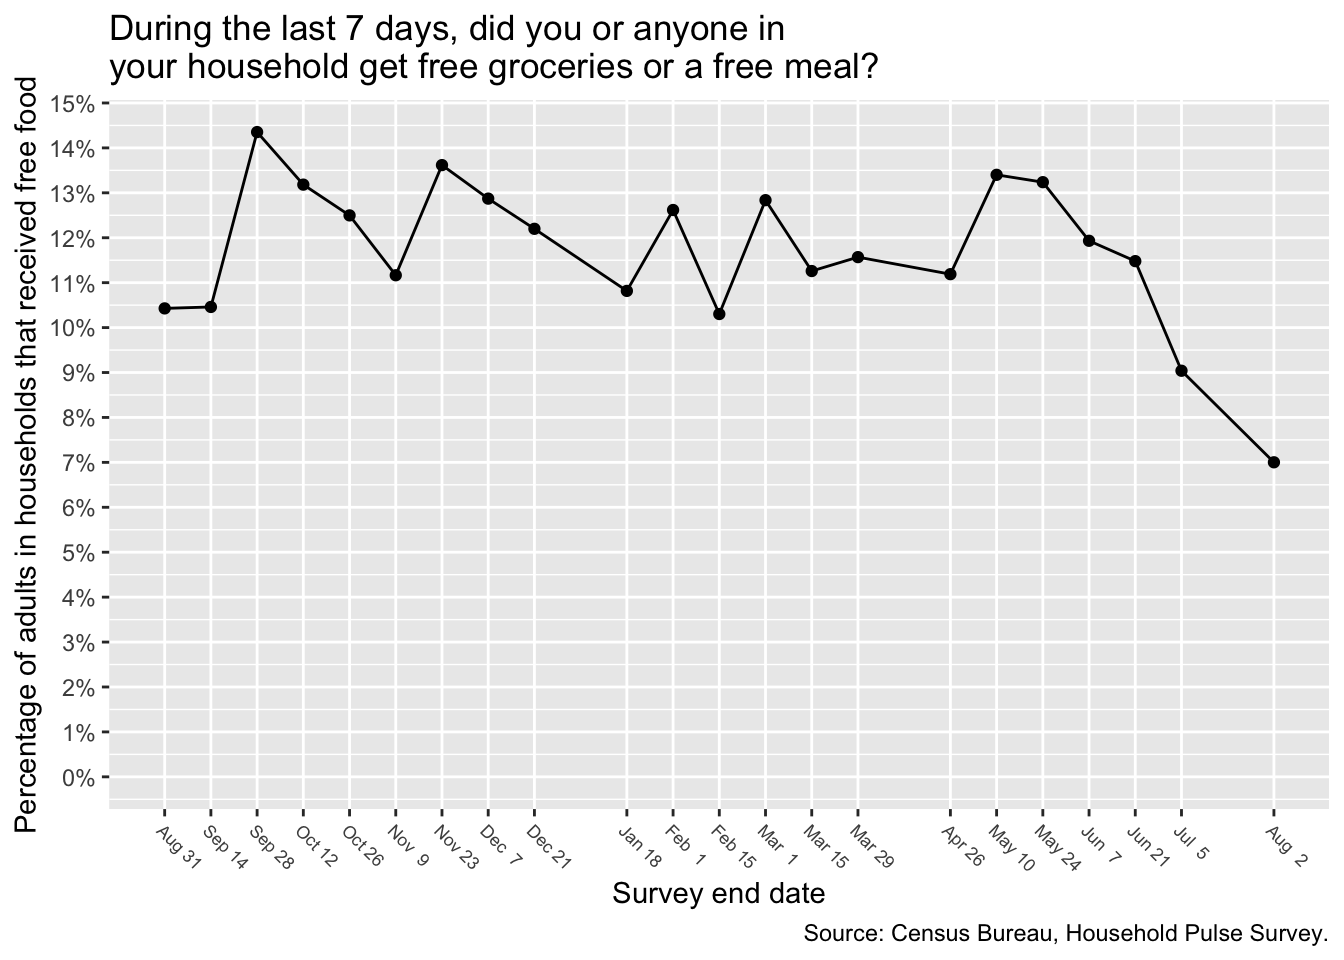
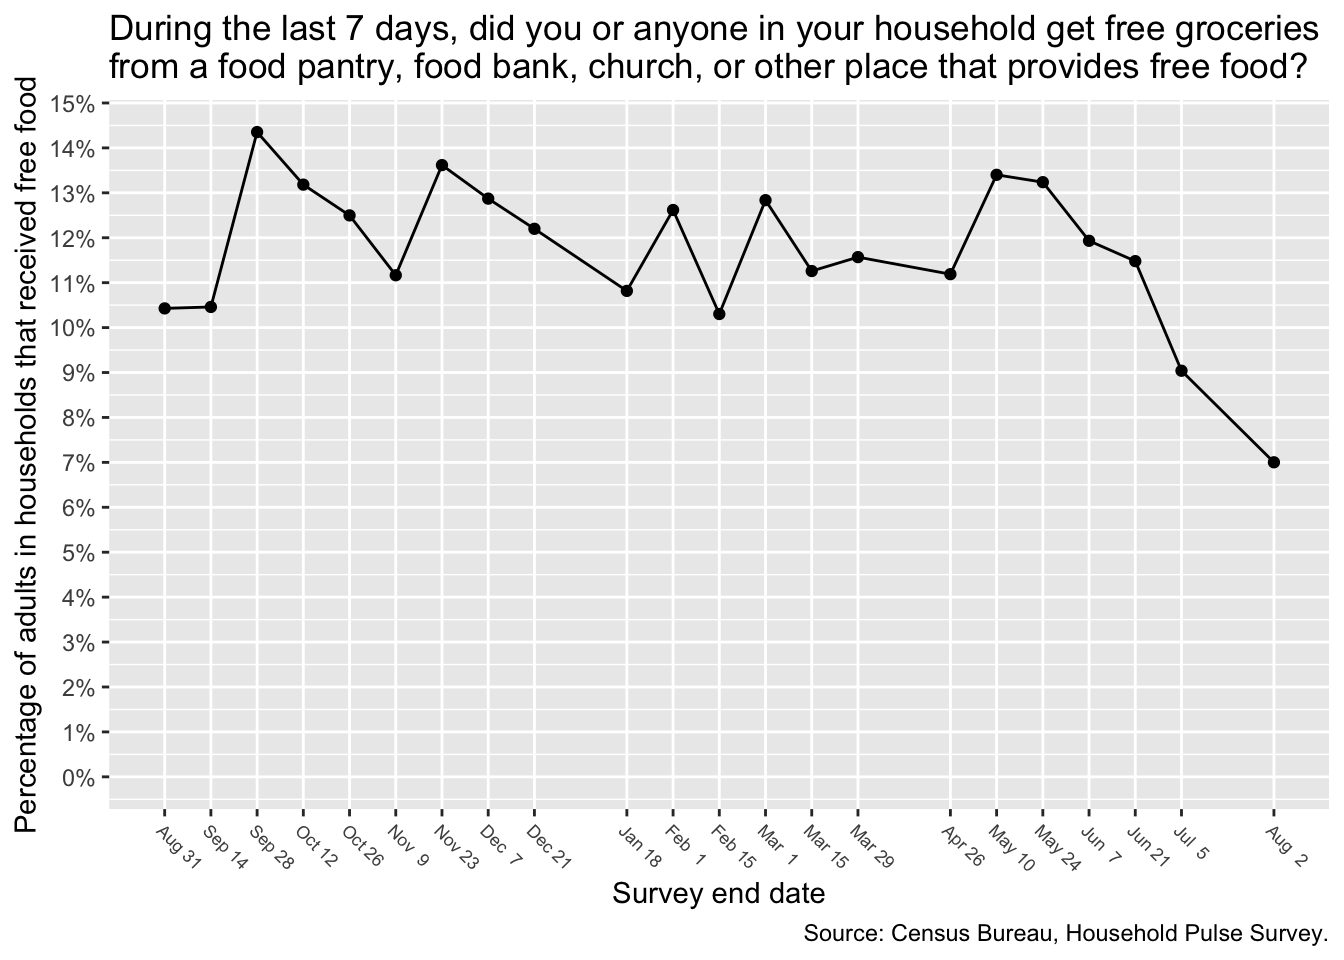
Update site

Changed region(s): [[0.0625, 0.0, 0.9688, 0.0938]]

diff --git a/docs/state/index.html b/docs/state/index.html
@@ -9,7 +9,7 @@
   <meta content='California - California Pulse' property='og:title' />
 
 
-<meta property="og:description" content="Overview Food insufficiency  Rate over time Geography Demographics Reasons Severity Supplemental Nutrition Assitance Program (SNAP) Free groceries or meals  Unemployment  Rate over time Geography  Unemployment and food insufficiency   Overview The data on this site is derived from the U.S. Census Bureau Household Pulse Survey (HPS) and the U." />
+<meta property="og:description" content="Overview Food insufficiency  Rate over time Geography Demographics Reasons Severity Supplemental Nutrition Assitance Program (SNAP) Free groceries  Unemployment  Rate over time Geography  Unemployment and food insufficiency   Overview The data on this site is derived from the U.S. Census Bureau Household Pulse Survey (HPS) and the U.S. Bureau of Labor Statistics Local Area Unemployment Statistics (LAUS)." />
 <meta property="og:type" content="article" />
 <meta property="og:url" content="/state/" />
 
@@ -239,7 +239,7 @@ type="image/x-icon"/>
 <li><a href="#reasons">Reasons</a></li>
 <li><a href="#severity">Severity</a></li>
 <li><a href="#supplemental-nutrition-assitance-program-snap">Supplemental Nutrition Assitance Program (SNAP)</a></li>
-<li><a href="#free-groceries-or-meals">Free groceries or meals</a></li>
+<li><a href="#free-groceries">Free groceries</a></li>
 </ul></li>
 <li><a href="#unemployment">Unemployment</a>
 <ul>
@@ -326,8 +326,8 @@ Bureau of Labor Statistics, Local Area Unemployment Statistics.</p>
 <p><img src="../state_files/figure-html/unnamed-chunk-11-1.png" width="672" /></p>
 <p>This question was first asked in the survey that ended 2020 Aug 31.</p>
 </div>
-<div id="free-groceries-or-meals" class="section level3">
-<h3>Free groceries or meals</h3>
+<div id="free-groceries" class="section level3">
+<h3>Free groceries</h3>
 <p><img src="../state_files/figure-html/unnamed-chunk-12-1.png" width="672" /></p>
 <p><br>
 <br></p>

diff --git a/docs/index.html b/docs/index.html
@@ -237,7 +237,7 @@ type="image/x-icon"/>
 <li><a href="#reasons">Reasons</a></li>
 <li><a href="#severity">Severity</a></li>
 <li><a href="#supplemental-nutrition-assitance-program-snap">Supplemental Nutrition Assitance Program (SNAP)</a></li>
-<li><a href="#free-groceries-or-meals">Free groceries or meals</a></li>
+<li><a href="#free-groceries">Free groceries</a></li>
 </ul></li>
 <li><a href="#unemployment">Unemployment</a>
 <ul>
@@ -324,8 +324,8 @@ Bureau of Labor Statistics, Local Area Unemployment Statistics.</p>
 <p><img src="./state_files/figure-html/unnamed-chunk-11-1.png" width="672" /></p>
 <p>This question was first asked in the survey that ended 2020 Aug 31.</p>
 </div>
-<div id="free-groceries-or-meals" class="section level3">
-<h3>Free groceries or meals</h3>
+<div id="free-groceries" class="section level3">
+<h3>Free groceries</h3>
 <p><img src="./state_files/figure-html/unnamed-chunk-12-1.png" width="672" /></p>
 <p><br>
 <br></p>
